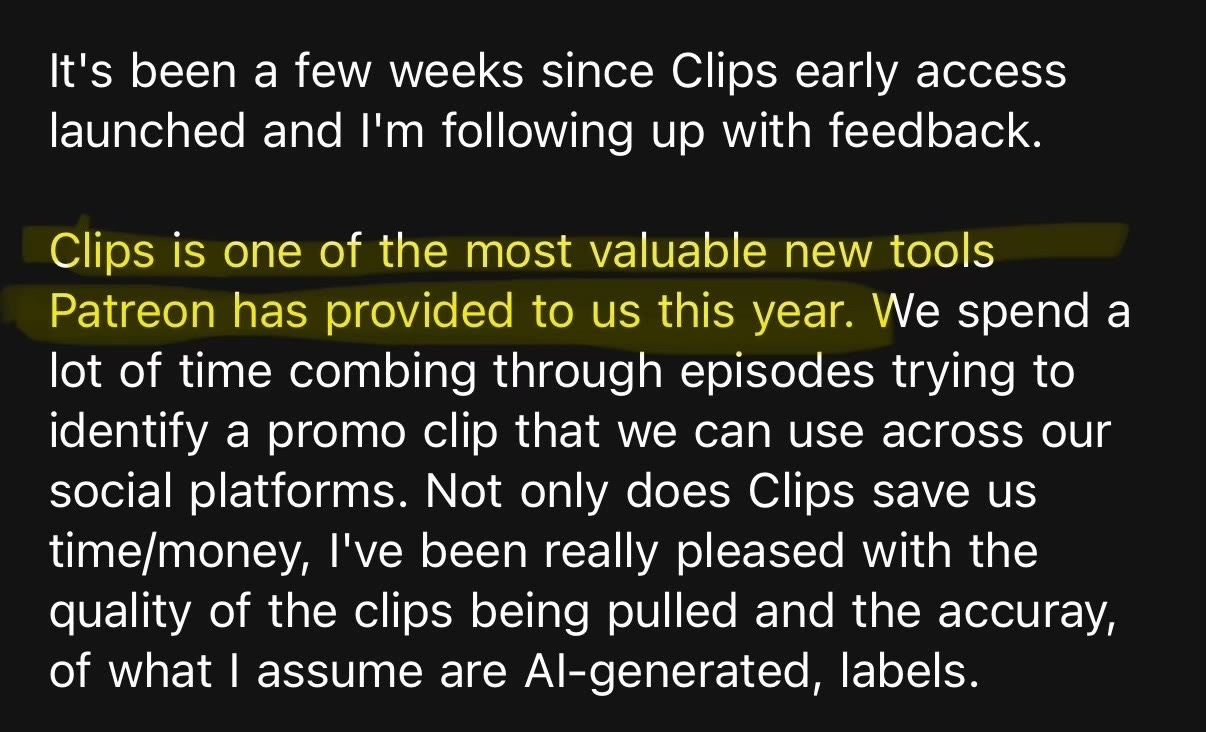
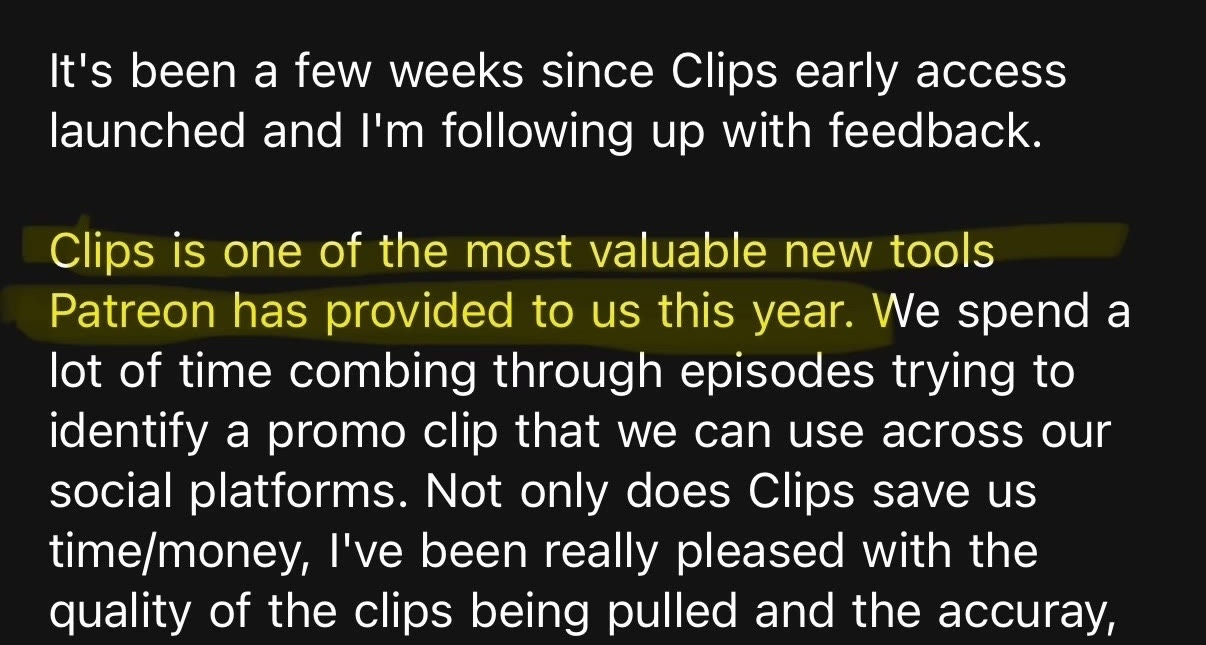
Scrub the playhead only over the filmstrip, not the band's whitespace

Changed region(s): [[0.0, 0.2791, 0.9511, 0.9922], [0.0307, 0.062, 0.8897, 0.2481]]

diff --git a/src/scripts/post.ts b/src/scripts/post.ts
@@ -26,9 +26,12 @@ function initHero(post: HTMLElement) {
   const reduced = matchMedia('(prefers-reduced-motion: reduce)').matches;
   let hov = false, hmx = 0, t0 = performance.now(), hp = 0, lastFr = -1, liveAt = 0;
 
-  hB.addEventListener('mouseenter', () => { hov = true; });
-  hB.addEventListener('mousemove', (e) => { hmx = e.clientX - hB.getBoundingClientRect().left; });
-  hB.addEventListener('mouseleave', () => {
+  // Scrubbing is bound to the filmstrip itself, not the whole band — the
+  // empty space around the frames shouldn't drag the playhead. (mouseleave
+  // ignores moves into descendants, so a lifted frame doesn't break it.)
+  strip.addEventListener('mouseenter', () => { hov = true; });
+  strip.addEventListener('mousemove', (e) => { hmx = e.clientX - hB.getBoundingClientRect().left; });
+  strip.addEventListener('mouseleave', () => {
     hov = false;
     t0 = performance.now() - hp * 8000; // resume the linear sweep from the current position (ascending)
   });
